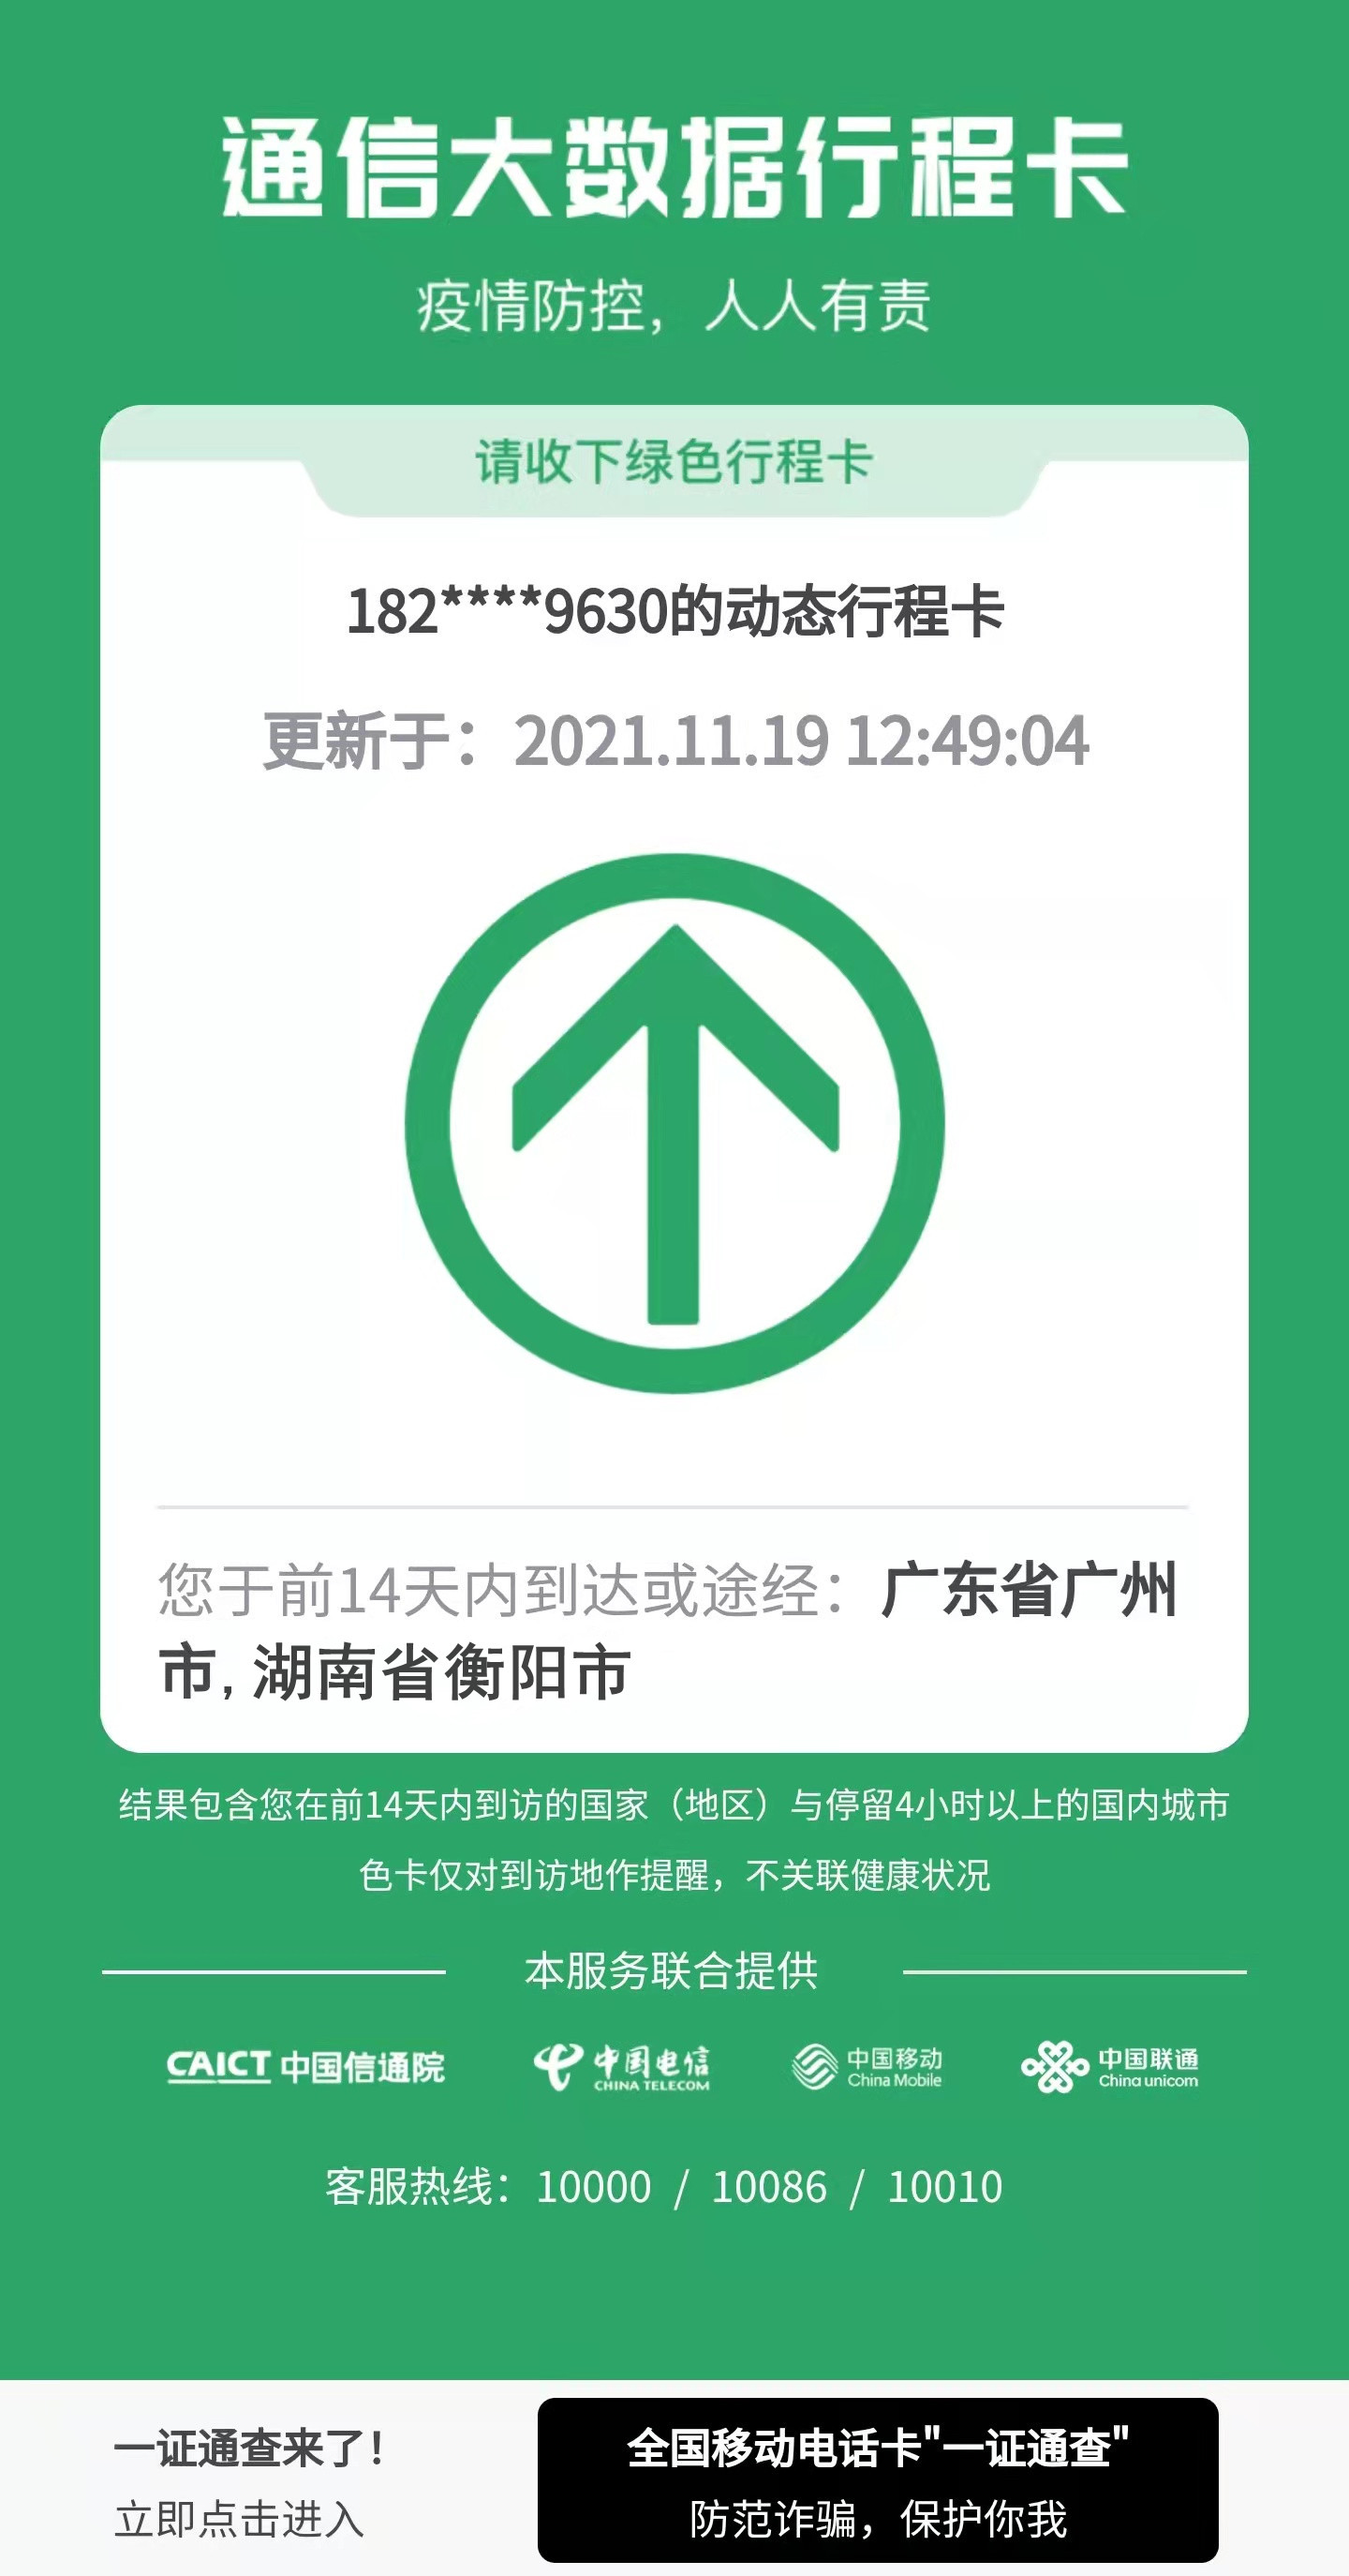
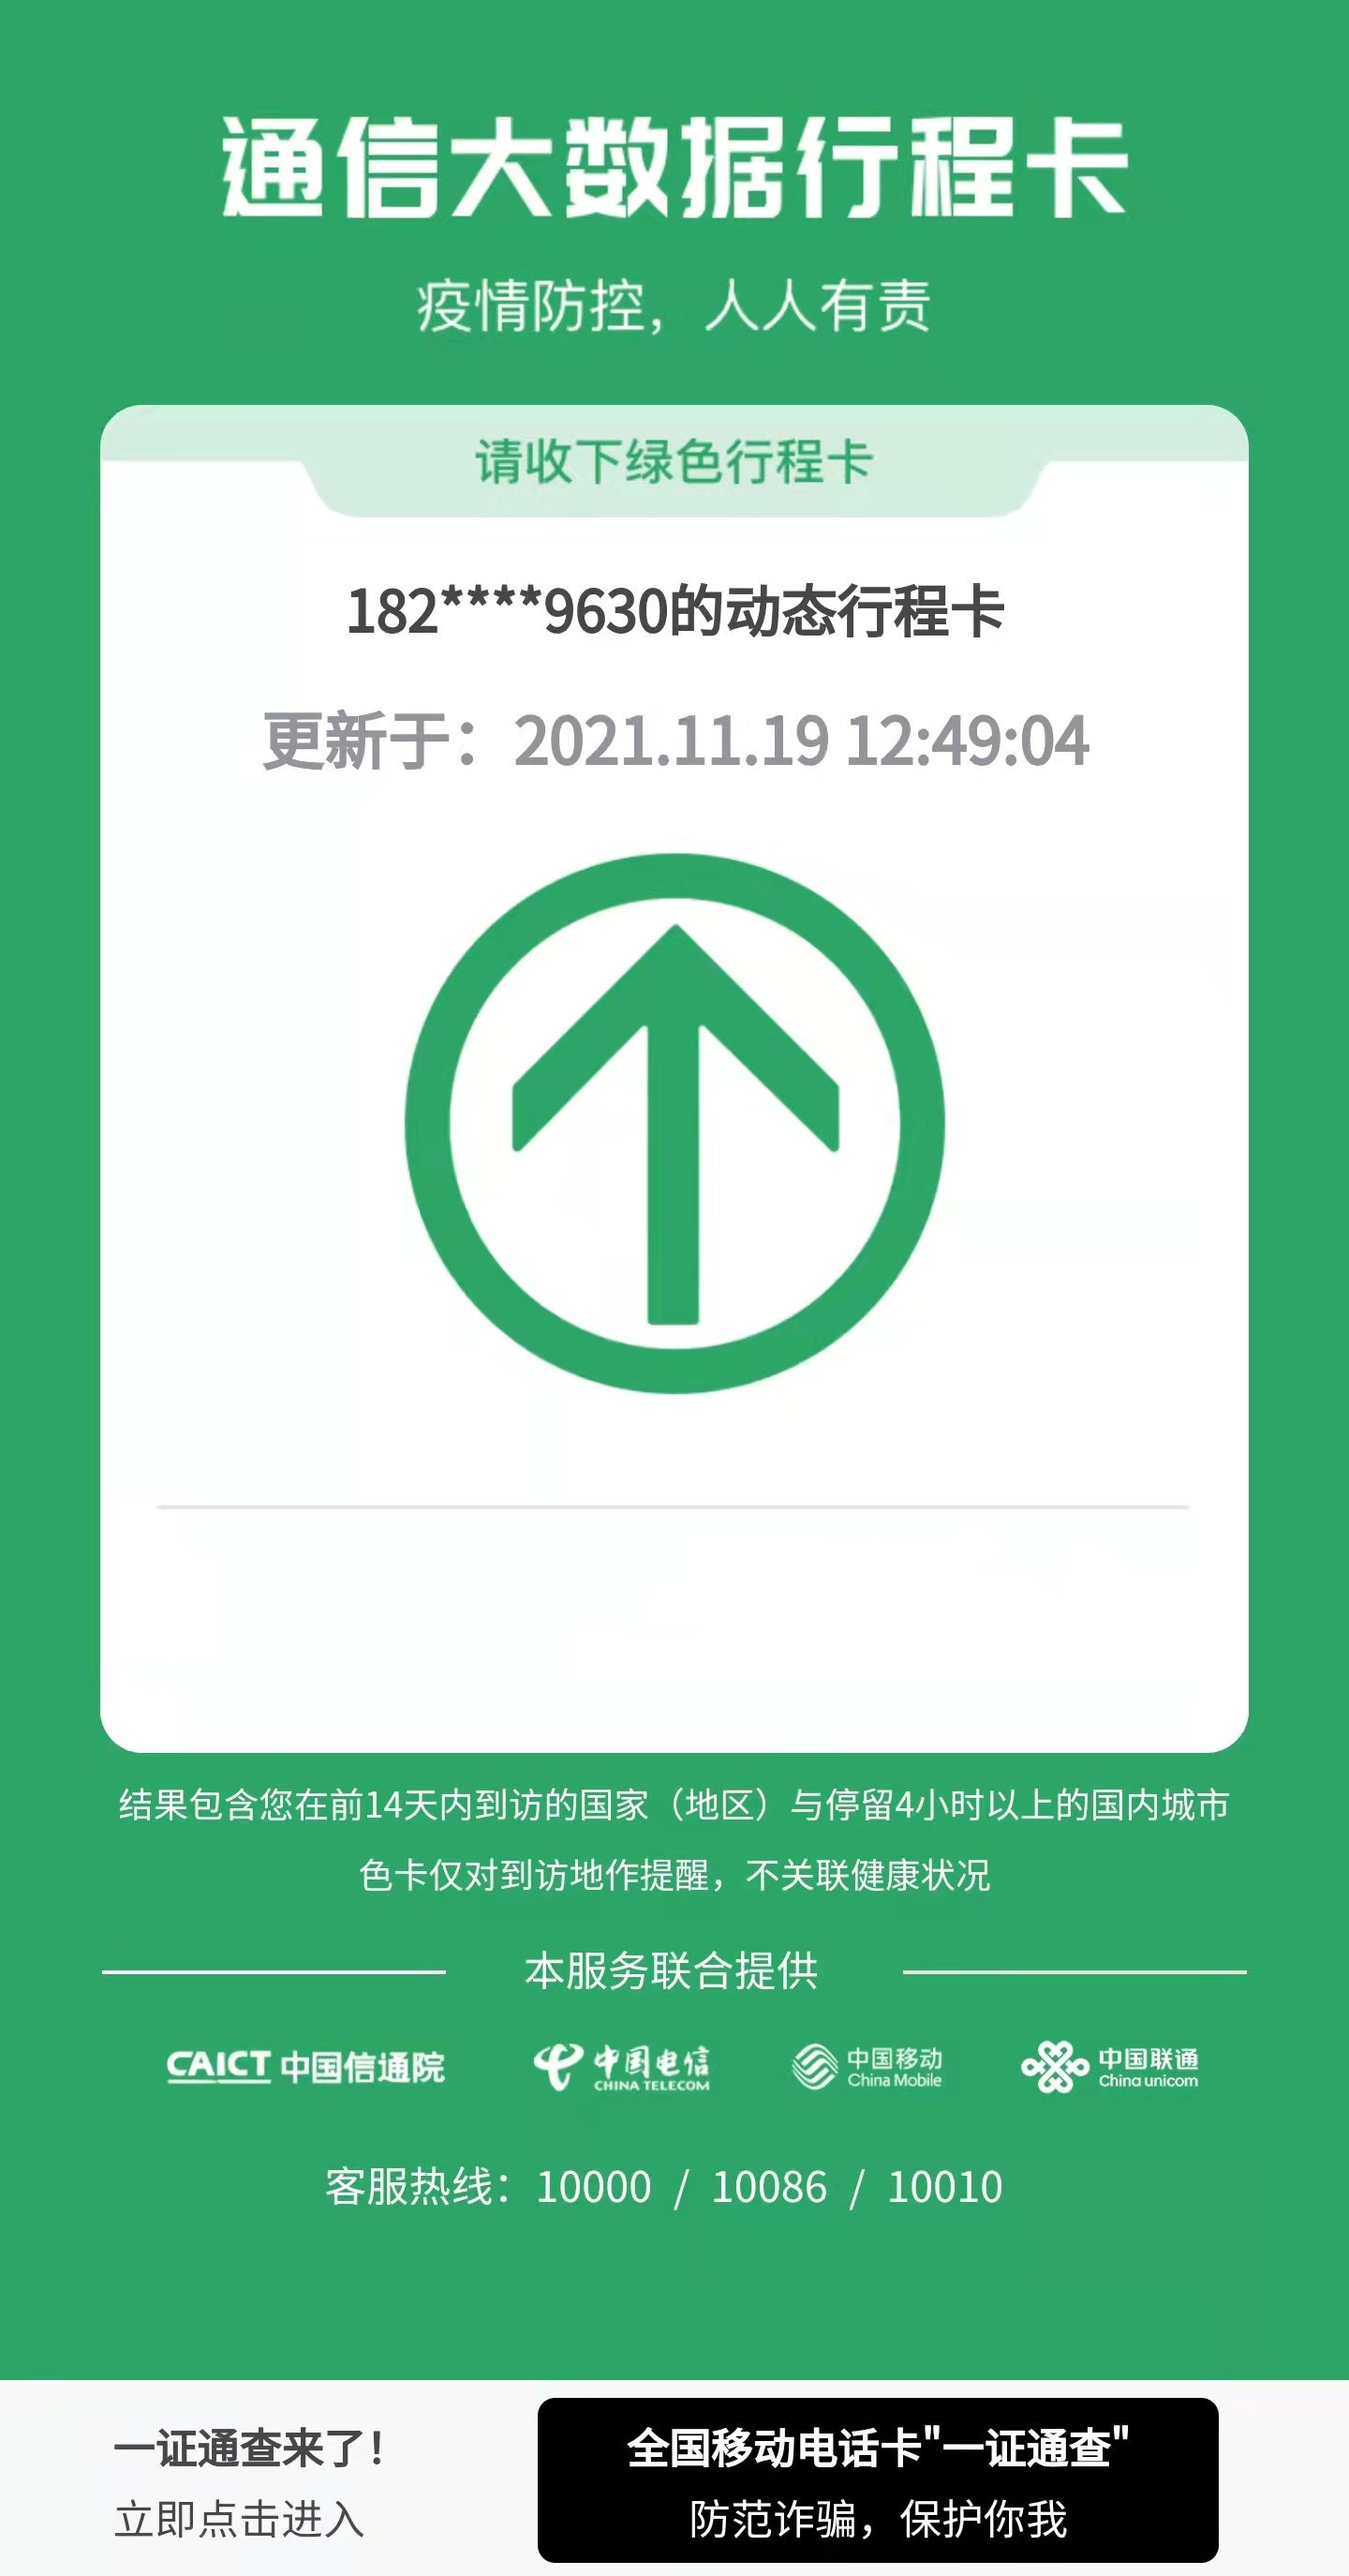
fix

Changed region(s): [[0.125, 0.5877, 0.4688, 0.6805], [0.6562, 0.5877, 0.875, 0.6496], [0.5, 0.5877, 0.5938, 0.6496]]

diff --git a/index.html b/index.html
@@ -218,6 +218,19 @@
       .container .arrow .up {
         animation: circle 2.5s linear infinite;
       }
+      .citys{
+        width: 311px;
+        margin: 0 auto;
+        margin-top: 49px;
+        line-height: 23px;
+        font-size: 17px;
+      }
+      .gray{
+        color: #7e8c8d;
+      }
+      .weight{
+        font-weight: 600;
+      }
     </style>
   </head>
   <body>
@@ -227,6 +240,10 @@
       </div>
       <div class="arrow">
         <img class="up" src="./arrow.png" alt="" />
+      </div>
+      <div class="citys">
+        <span class="gray">您于前14天内到达或途径：</span>
+        <span class="weight" id="city"></span>
       </div>
     </div>
 
@@ -249,9 +266,21 @@
           .replace(/ss/g, (s < 10 ? "0" : "") + s);
       };
 
+      const getUrlParam = (name) => {
+        var reg = new RegExp("(^|&)" + name + "=([^&]*)(&|$)", "i");
+        var r = window.location.search.substr(1).match(reg);
+        if (r != null) {
+          return decodeURI(r[2]);
+        }
+        return null;
+      };
+
       document.querySelector("#time").innerText = `更新于：${dateFormater(
         "YYYY.MM.DD HH:mm:ss"
       )}`;
+
+
+      document.querySelector('#city').innerText = getUrlParam('city') ?? '广东省广州市'
     </script>
   </body>
 </html>
